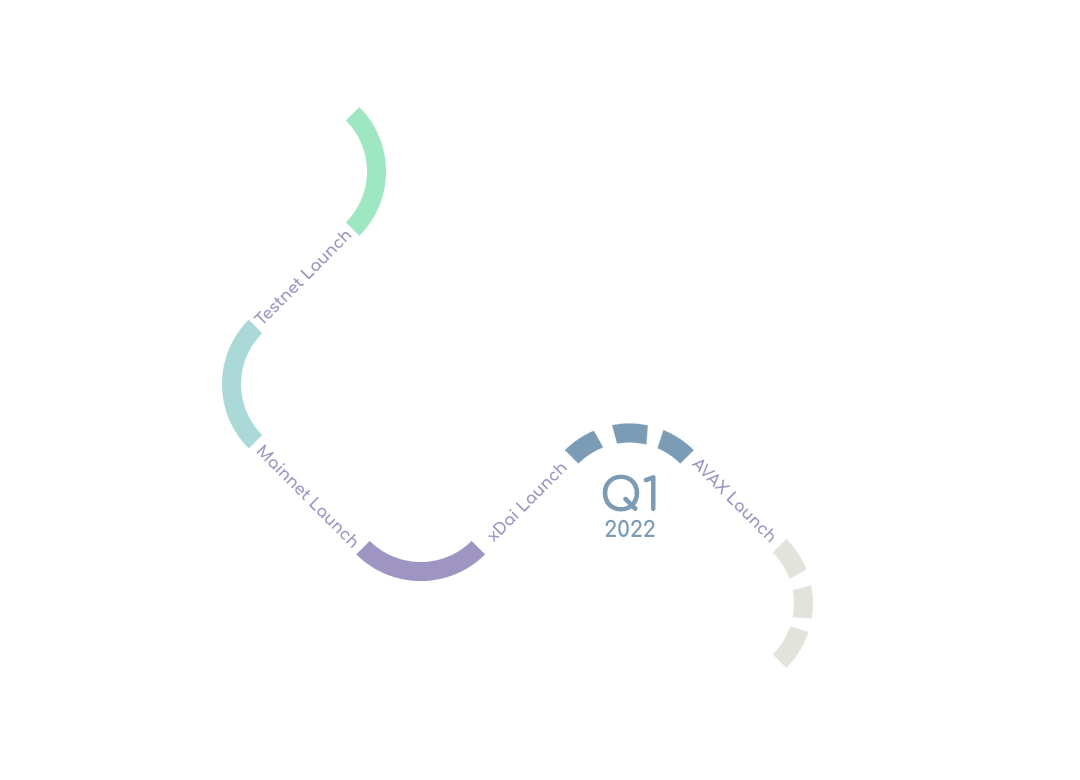
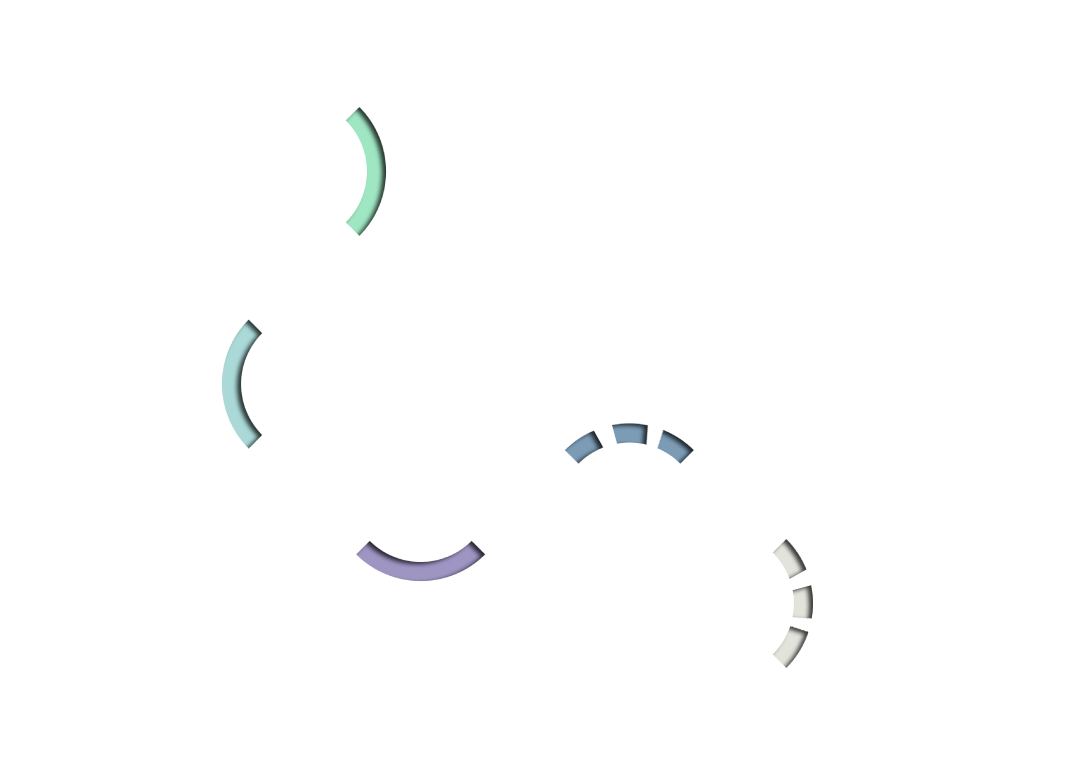
moon to go

diff --git a/src/components/subs/RoadMap/RoadMap.js b/src/components/subs/RoadMap/RoadMap.js
@@ -5,9 +5,10 @@ class RoadMap extends Component {
     render() {
         return (<div style={{ position: "relative", top: 0, left: 0 }} ><h1>Road Map</h1><hr></hr>
             <div style={{ position: "relative", top: 0, left: 0 }}>
-                <div style={{ position: "absolute", top: 0, left: "-2em", paddingBottom: "40px" }} > <img src="../../../Road.png" style={{ background: grey, borderRadius: "9px", paddingTop: "20px", }} /></div>
-                <div style={{ position: "absolute", top: 20, left: 0 }} ><img src="../../../2q21_down.png" /></div>
-                <div style={{ position: "absolute", top: 20, left: 0 }} ><img src="../../../2q21_up.png" /></div>
+                <div style={{ position: "absolute", top: 20, left: 0 }} > <img src="../../../bg.png" style={{ width: "100%" }} /></div>
+                <div style={{ position: "absolute", top: 20, left: 0 }} > <img src="../../../Road.png" style={{ width: "100%" }} /></div>
+                <div style={{ position: "absolute", top: 20, left: 0 }} ><img src="../../../2q21_down.png" style={{width: "100%"}} /></div>
+                <div style={{ position: "absolute", top: 20, left: 0 }} ><img src="../../../2q21_up.png" style={{width: "100%"}} /></div>
 
             </div>
         </div>);
